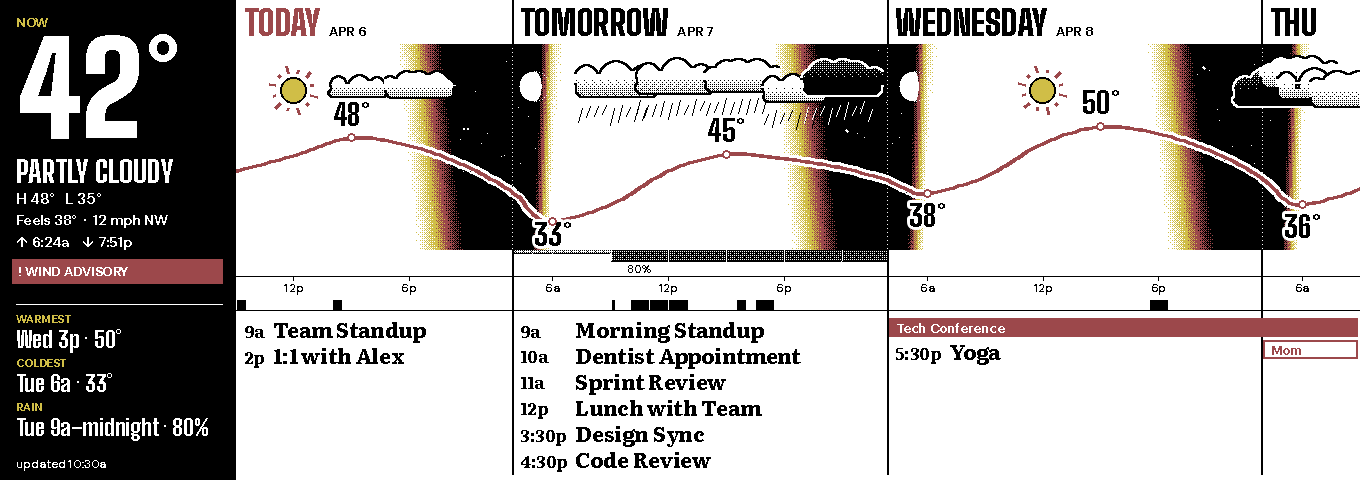
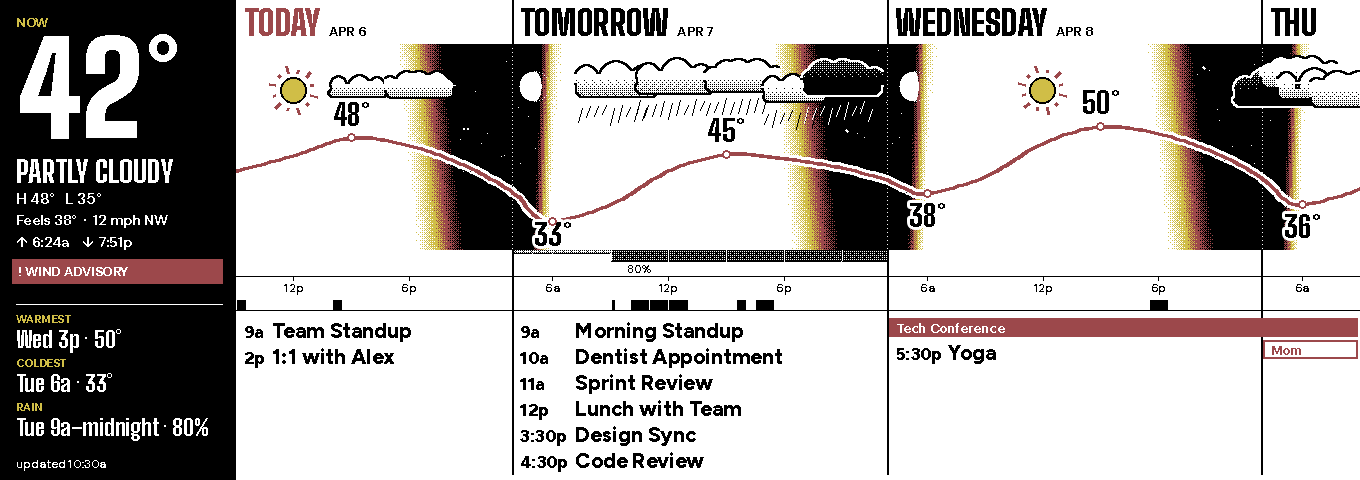
wide_horizon: set event rows in Figtree ExtraBold (#326)
* wide_horizon: set event rows in Inter

The Literata serif held its weight on the panel but read wrong beside
the plate's condensed display type. Inter ExtraBold keeps the same 4-px
title stem at 21 px, and Inter Bold the 3-px time stem at 17 px, as a
neutral grotesque. The other bundled sans faces hint to 2 px here and
DM Sans at its axis maximum went blunt.

Bundles Inter-Bold.ttf and Inter-ExtraBold.ttf (static, full glyph set,
from the official v4.1 release's extras/ttf) with Inter-OFL.txt, and
adds fonts.inter_bold / fonts.inter_extrabold.

Claude-Session: https://claude.ai/code/session_01KCiLHCYhChC1kojFWGv1dh

* wide_horizon: set event rows in Figtree ExtraBold

Titles and times move from Inter to Figtree ExtraBold at the same sizes
(21 / 17 px): both keep a 3-px stem on a 1-bit plate, where DM Sans Bold
set 2 px. Bundles Figtree-ExtraBold.ttf (the full-glyph Google Fonts
build) with Figtree-OFL.txt, adds fonts.figtree_extrabold, and drops the
Inter files and accessors nothing else uses.

Claude-Session: https://claude.ai/code/session_01KCiLHCYhChC1kojFWGv1dh

---------

diff --git a/tests/test_wide_horizon_theme.py b/tests/test_wide_horizon_theme.py
@@ -670,20 +670,38 @@ class TestDayLists:
         widths = sorted(n for n in (ink(img, (0, y, 60, y + 1)) for y in range(60)) if n)
         return widths[len(widths) // 2]
 
-    def test_rows_are_set_in_literata_with_heavy_stems(self):
+    def test_row_faces_set_heavy_stems(self):
         # Read at a glance across a room: DM Sans Bold at 18 px set a 2-px stem.
-        title, time = fonts.literata_bold(wh.ROW_TITLE_PT), fonts.literata_bold(wh.ROW_TIME_PT)
-        assert self._stem(title) >= 4
-        assert self._stem(time) >= 3
+        for pt in (wh.ROW_TITLE_PT, wh.ROW_TIME_PT):
+            assert self._stem(fonts.figtree_extrabold(pt)) >= 3, pt
+        assert self._stem(fonts.dm_bold(18)) == 2  # the face it replaced
 
-    def test_the_rows_draw_in_literata(self):
+    @pytest.mark.parametrize("title", ["Встреча", "Συνάντηση", "Họp mặt"])
+    def test_a_title_figtree_cannot_set_falls_back(self, title):
+        # Figtree is Latin-only; Pillow draws .notdef boxes rather than
+        # falling back, so the row picks a face that covers the title.
+        assert not fonts.has_glyphs(fonts.figtree_extrabold(wh.ROW_TITLE_PT), title)
+        face = wh.title_font(title, wh.ROW_TITLE_PT)
+        assert fonts.has_glyphs(face, title)
+        assert wh.title_font("Dentist Łódź", wh.ROW_TITLE_PT).getname()[0] == "Figtree"
+
+    def test_the_fallback_reaches_the_plate(self):
+        evt = _event("Встреча", datetime(2026, 4, 7, 14))
+        data = DashboardData(events=[evt])
+        tue = date(2026, 4, 7)
+        fallback = self._list(_plate(data, mode="L").convert("1"), tue, h=wh.ROW_H)
+        with patch.object(wh, "title_font", lambda _t, s: fonts.figtree_extrabold(s)):
+            boxes = self._list(_plate(data, mode="L").convert("1"), tue, h=wh.ROW_H)
+        assert fallback != boxes
+
+    def test_the_rows_draw_in_figtree(self):
         evt = _event("Dentist Appointment", datetime(2026, 4, 7, 14))
         data = DashboardData(events=[evt])
         tue = date(2026, 4, 7)
-        lit = self._list(_plate(data, mode="L").convert("1"), tue, h=wh.ROW_H)
-        with patch.object(fonts, "literata_bold", fonts.dm_bold):
+        figtree = self._list(_plate(data, mode="L").convert("1"), tue, h=wh.ROW_H)
+        with patch.object(fonts, "figtree_extrabold", fonts.dm_bold):
             dm = self._list(_plate(data, mode="L").convert("1"), tue, h=wh.ROW_H)
-        assert lit > dm * 1.15
+        assert figtree > dm * 1.05
 
     def test_a_chip_on_another_day_does_not_push_the_list_down(self):
         evt = _event("Dentist", datetime(2026, 4, 7, 14))
@@ -1044,6 +1062,7 @@ class TestFonts:
             fonts.big_shoulders_semibold,
             fonts.big_shoulders_extrabold,
             fonts.big_shoulders_black,
+            fonts.figtree_extrabold,
         ],
     )
     def test_loads_and_covers_the_glyphs_used(self, accessor):

diff --git a/src/render/components/wide_horizon_panel.py b/src/render/components/wide_horizon_panel.py
@@ -108,11 +108,12 @@ ALLDAY_H = 22
 STRIP_H = 10
 STRIP_GAP = 8
 # Each day's events listed in its own column, one line apiece.
-# Literata Bold, a reading serif drawn for e-readers: a 4-px stem on the
-# titles and 3 px on the times on a 1-bit plate, where DM Sans Bold set 2 px
-# and only its blunt axis maximum went heavier. SemiBold would snap the times
-# to 2 px below 18 px (as on wide_week's rail). Six rows still fill the band
-# below the strip when no all-day chip crosses it.
+# Figtree ExtraBold for titles and times: a 3-px stem at both sizes on a 1-bit
+# plate, where DM Sans Bold set 2 px and only its blunt axis maximum went
+# heavier. Figtree is Latin-only, so a title it cannot set (Cyrillic, Greek,
+# Vietnamese) falls back to Literata Bold, which covers them at a matching
+# weight (``title_font``). Six rows still fill the band below the strip when
+# no all-day chip crosses it.
 ROW_H = 26
 ROW_TITLE_PT = 21
 ROW_TIME_PT = 17
@@ -618,6 +619,12 @@ def allday_in_window(
 
 def _as_date(v) -> date:
     return v.date() if isinstance(v, datetime) else v
+
+
+def title_font(text: str, size: int):
+    """Figtree ExtraBold, or Literata Bold for a title Figtree has no glyphs for."""
+    font = fonts.figtree_extrabold(size)
+    return font if fonts.has_glyphs(font, text) else fonts.literata_bold(size)
 
 
 def fit_text(text: str, width: float, measure) -> str:
@@ -1428,12 +1435,8 @@ def _draw_events(draw, data: DashboardData, axis: TimeAxis, y0: int, y1: int, in
                     )
 
     hidden_by_day = overflow_counts(hidden, axis)
-    title_font = fonts.literata_bold(ROW_TITLE_PT)
-    time_font = fonts.literata_bold(ROW_TIME_PT)
-    more_font = fonts.literata_bold(ROW_TIME_PT)
-
-    def measure_title(t: str) -> float:
-        return text_width(draw, t, title_font)
+    time_font = fonts.figtree_extrabold(ROW_TIME_PT)
+    more_font = fonts.figtree_extrabold(ROW_TIME_PT)
 
     for cx0, cx1, day in day_columns(axis):
         day_events = [e for e in events if column_day(e, axis) == day]
@@ -1460,8 +1463,11 @@ def _draw_events(draw, data: DashboardData, axis: TimeAxis, y0: int, y1: int, in
             baseline = ry + ROW_H - 6
             draw.text((left, baseline), when, font=time_font, fill=ink.black, anchor="ls")
             if right - title_x >= MIN_BESIDE_LABEL_W:
-                title = fit_text(evt.summary, right - title_x, measure_title)
-                draw.text((title_x, baseline), title, font=title_font, fill=ink.black, anchor="ls")
+                face = title_font(evt.summary, ROW_TITLE_PT)
+                title = fit_text(
+                    evt.summary, right - title_x, lambda t, f=face: text_width(draw, t, f)
+                )
+                draw.text((title_x, baseline), title, font=face, fill=ink.black, anchor="ls")
         if more:
             ry = top + shown * ROW_H
             draw.text(

diff --git a/src/render/fonts.py b/src/render/fonts.py
@@ -1,9 +1,32 @@
 from functools import lru_cache
 from pathlib import Path
 
-from PIL import ImageFont
+from PIL import Image, ImageDraw, ImageFont
 
 FONT_DIR = Path(__file__).parent.parent.parent / "fonts"
+
+
+def _glyph_bits(font: ImageFont.FreeTypeFont, ch: str) -> bytes:
+    side = int(font.size) * 2
+    img = Image.new("1", (side, side), 0)
+    ImageDraw.Draw(img).text((0, 0), ch, font=font, fill=1)
+    return img.tobytes()
+
+
+@lru_cache(maxsize=4096)
+def _has_glyph(path: str, ch: str) -> bool:
+    font = ImageFont.truetype(path, 24)
+    # U+FFFF is a noncharacter, so every font draws its .notdef box for it.
+    return _glyph_bits(font, ch) != _glyph_bits(font, "\uffff")
+
+
+def has_glyphs(font: ImageFont.FreeTypeFont, text: str) -> bool:
+    """Whether *font* draws every character of *text*, rather than its .notdef box.
+
+    Pillow has no per-character font fallback, so a face missing a script
+    renders it as a row of boxes; callers use this to pick a fallback face.
+    """
+    return all(ch.isspace() or _has_glyph(str(font.path), ch) for ch in text)
 
 
 @lru_cache(maxsize=32)
@@ -218,6 +241,14 @@ def literata_semibold(size: int) -> ImageFont.FreeTypeFont:
 
 def literata_bold(size: int) -> ImageFont.FreeTypeFont:
     return get_font("Literata-Bold.ttf", size)
+
+
+# Figtree — a friendly geometric sans (OFL). Static ExtraBold, full glyph
+# set, the Google Fonts build (as repackaged by @expo-google-fonts/figtree).
+# Sets a 3-px stem at both 17 and 21 px on a 1-bit plate, where DM Sans Bold
+# hints to 2 px.
+def figtree_extrabold(size: int) -> ImageFont.FreeTypeFont:
+    return get_font("Figtree-ExtraBold.ttf", size)
 
 
 # Cormorant Garamond — high-contrast Garamond-revival serif (OFL).  Variable

diff --git a/CLAUDE.md b/CLAUDE.md
@@ -377,7 +377,8 @@ The cooldown is `display.min_refresh_interval_seconds` (config), defaulting to 6
 | `Orbitron-Variable.ttf` (OFL, variable) | `orbitron_black` | `terminal` — large today date numeral |
 | `DMSans.ttf` | `dm_regular/medium/semibold/bold` | `minimalist`, `weather`, `fuzzyclock`, `diags` (section labels), `countdown`, `astronomy`, `agenda`, `light_cycle`, `constellation_map` (margin) |
 | `PlayfairDisplay-*.ttf` | `playfair_regular/medium/semibold/bold` | `old_fashioned`, `qotd`, `almanac` (body + quote), `wide_week` rail (masthead, temperature, NEXT time, quote mark) |
-| `Literata-SemiBold.ttf` / `Literata-Bold.ttf` (OFL; static instances at opsz 12 cut from the upstream variable font with `fonttools varLib.instancer`) | `literata_semibold`, `literata_bold` | `wide_week` rail — the quote (SemiBold ≥ 18 px, Bold below, via `wide_week_rail_panel.quote_font`); `wide_horizon` — event rows (Bold throughout) |
+| `Literata-SemiBold.ttf` / `Literata-Bold.ttf` (OFL; static instances at opsz 12 cut from the upstream variable font with `fonttools varLib.instancer`) | `literata_semibold`, `literata_bold` | `wide_week` rail — the quote (SemiBold ≥ 18 px, Bold below, via `wide_week_rail_panel.quote_font`) |
+| `Figtree-ExtraBold.ttf` (OFL; static full-glyph Google Fonts build, via `@expo-google-fonts/figtree`) | `figtree_extrabold` | `wide_horizon` — event rows (21-px titles, 17-px times) |
 | `Cinzel.ttf` | `cinzel_regular/semibold/bold/black` | `fantasy`, `old_fashioned` section labels, `moonphase`, `almanac` (section labels + small caps) |
 | `CormorantGaramond.ttf` / `CormorantGaramond-Italic.ttf` (OFL, variable) | `cormorant_regular/medium/semibold/italic` | `moonphase` — date, illumination, celestial + weather strips, quote body (italic) |
 | `Tangerine-Regular.ttf` (OFL) | `tangerine_regular` | `moonphase` — calligraphic script quote attribution |
@@ -504,7 +505,7 @@ default to `None` and fall back gracefully so adding a new field never breaks ex
 - **`display.scaling` decides how an off-size canvas reaches the panel** (`fit_canvas()` in `src/display/backend.py`). Every version so far stretched, and `auto` (the default) still does unless `distortion()` — the ratio between the panel's aspect and the canvas's — exceeds `FIT_DISTORTION_THRESHOLD` (4/3): a 4:3 `epd13in3k` is 1.25 and renders byte-identically to before, the 1360×480 strip is 1.7 and fits. `fit` pads with the theme's `bg`, passed to the backend as `background=` in the canvas's own mode (`pad_value()` converts it); `stretch` and `fit` are explicit overrides, and an unknown value behaves as `auto` at render time while `validate_config()` reports it. The backend tests build their config as a `MagicMock`, which is why `resolve_scaling()` treats anything but the two explicit strings as auto rather than raising.
 - **The `wide_*` themes declare a 1360×480 canvas** (`wide_week`, `wide_day`, `wide_forecast`, `wide_horizon`, `wide_night`, `wide_night_invert`, `wide_diags`, `halftone_agenda_wide`) and are the reason previews are rendered at the theme's canvas size when its *shape* differs from the panel's (`scripts/build_previews.py` swaps `cfg.display` width/height for the layout's only on an aspect mismatch — a supersampled 1600×960 canvas keeps the panel's 800×480 and its downsample) — on an 800×480 config they letterbox to a 800×282 band, which is what the pixel-snapshot and idle-tick suites hash. They are kept out of a random rotation on a panel of the other shape: `random_theme.eligible_themes(..., panel=)` drops any theme whose canvas would be fitted with padding there (`theme_fits_panel`, the same `FIT_DISTORTION_THRESHOLD` test `display.scaling: auto` applies), and `services/theme.py` and `validate_config` pass the configured panel. `OutputService` keys its default cooldown on the display spec, not the provider string, so a colour Waveshare model gets Inky's 60 s rather than the mono 0 s. `primitives.next_birthday()` is the one home of the Feb 29 → Feb 28 rollover; `birthday_bar`, `almanac`, `wide_day_panel` and `halftone_agenda_wide_panel` all call it. `wide_week` is the standard `week_view` on the right (920 px, full height, no header) beside `wide_week_rail_panel.py`, a 440-px broadsheet rail (Playfair Display, accent small-caps labels, hairline rules; section tops are fixed constants so the rules land in the same place daily) whose NOW/NEXT line is its one clock-driven element, moving only at event boundaries (hence `EXTRA_EVENT_DAYS["wide_week"] = 1`); the rail's type floor is 13 px with 16-px DM Sans **SemiBold** body rows (Medium at 13 px rasterised to hairlines), its quote is **Literata** (a reading serif drawn for e-readers; Playfair's hairlines broke up even at SemiBold) at SemiBold from 18 px and Bold below, because bilevel hinting snaps SemiBold's stems to 2 px at 16–17 px and a long quote stepping down a size would visibly thin out (`TestQuoteWeight` pins a 3-px stem at every `QUOTE_PTS` size), and `draw_wide_week_rail` sets `draw.fontmode = "1"` around the whole rail (restoring the caller's afterwards) because on the colour panels' RGB canvas antialiased glyph edges were cut at mid-grey by the four-ink snap, erasing Playfair's hairlines — `TestBilevelType` pins both; its sky rows reuse `wide_horizon_panel.sun_zone` for naive preview clocks; colour is split by ink — red (primary accent) for labels and warnings, yellow (the resolved `accent_warn`) **only as a fill behind ink type** (NOW/NEXT band, rain chips, a birthday today), never as type or rules, and `highlight()` returns `None` where `accent_warn` resolves to `fg` (mono) so the fills drop out rather than blacking the type out — the grid's `secondary_accent_fill()` colours the weekend headers' *text*, so switching the theme's secondary accent to yellow would have put yellow type in the grid; `wide_day` (`wide_day_panel.py`) packs bars into lanes by `pack_lanes()` over *bar-plus-label* pixel extents, not time spans — a thirty-minute meeting is 24 px on a sixteen-hour axis, so packing by time alone left a busy day as one lane of anonymous boxes — and is in `TIME_DRIVEN` (NOW marker) and `THEMES_NEEDING_TOMORROW` (its UP NEXT rail). `wide_forecast` (`wide_forecast_panel.py`) is idle-stable; its yellow precipitation fill is drawn only when `secondary_accent_fill()` differs from `fg` (`_tint()`), because on a monochrome plate a fill behind ink text is unreadable. All three name only red/yellow/black accents so the Inky preview and the four-ink panel agree.
 - **Art regions are the one place a colour panel dithers.** A colour backend snaps every pixel to the nearest ink (`quantize_to_palette_nearest` on the G panel, the Inky driver at write time), which flattens an illustration's gradient to one ink while the same theme's greyscale path keeps its engraving. `RenderContext.dither_regions` is a list the adapter fills from the panel's pure `art_rect(region)` (`halftone`, `halftone_agenda`, `halftone_agenda_wide` and `day_arc` declare their art panes; the panel itself never sees the list, so it stays a pure function of its inputs), and `canvas.render_dashboard` passes it to `resize_and_finalize(..., dither_regions=...)`. `backend.dither_art_regions()` maps each rectangle through `placement()` — the same arithmetic `fit_canvas` uses, so a region declared in canvas coordinates lands on the fitted or stretched plate — cuts it from the resized canvas *before* the snap, Floyd-Steinberg-diffuses it onto the inks with `quantize_to_palette_fs`, and pastes it over the snapped plate. Floyd-Steinberg, not ordered Bayer: it is what the themes' L-mode path already uses, so the engraving matches across panels, and diffusion has no error to spread on an exact ink, so a solid yellow disc stays solid where a Bayer offset would speckle it. On Inky the target palette is `INKY_SPECTRA6_PALETTE` (the driver's measured values) so the write-time nearest mapping is the identity on the region. On the G panel the art helpers still fill with the measured Spectra values (`skyart.accent_yellow`, `artkit.accent_red` don't know the panel), so `G_EXACT_REMAP` substitutes each Spectra-6 value with the G ink at the same index *before* diffusion — diffusing (208,190,71) against (255,255,0) turned a solid sun disc 47% yellow. Neutral pixels diffuse against black and white only (`NEUTRAL_SPREAD`); diffusing them against the whole palette let accumulated error drift in hue and sprinkled a night sky with coloured dots. The mixing widens the perceived gamut only *inside* the hull of the inks — orange, pink, maroon, olive and greys on the G panel — and can never produce a blue or green there. Declaring a region that contains type will speckle it; the mono `WaveshareBackend` ignores the list because its whole plate already dithers.
-- **`wide_horizon` puts the next 72 hours on one axis** (`wide_horizon_panel.py`). The window starts at `window_start(now)` — the 3-hour forecast slot holding now — so the clock moves the plate at most eight times a day and the theme stays out of `TIME_DRIVEN`; the TODAY→TONIGHT switch keys on the slot for the same reason (and `header_label()` sets today's name as a caption in the date face when its slice is too narrow for a headline — never a shrunken headline, never the short weekday), and the hero's "updated" caption reads `content_time`. `TimeAxis` is piecewise-linear by clock hour (`hour_weight`: 23:00–06:00 at `NIGHT_WEIGHT`), ~19 px per waking hour against ~16 linear. The sky's colour per column is `astronomy.solar_altitude` at that column's time plus `HORIZON_GLOW_DEG` toward the band's bottom, mapped by `sky_field()` to **ordered dithers between pairs of inks** (white/yellow, yellow/red, red/black on colour; one black/white ramp on mono) from an 8×8 Bayer phased to canvas coordinates. Everything on the plate is an exact ink — tones are dithered here and type is set with `draw.fontmode = "1"` — so the four-ink snap and the mono threshold are the identity at native size. The sky is deliberately **not** an art region: `dither_art_regions()` is not the identity on a tile of exact inks (its neutral pass Floyd-Steinbergs the tile's luminance, flipping black/white pixels beside red and yellow), so declaring it speckled the plate on the panel it was drawn for — `test_native_pipeline_changes_nothing_but_the_ink_snap` pins this. The theme declares `ordered` quantization so a *scaled mono* panel re-screens rather than flattening a blurred dither (which also derives it out of partial refresh); small type on a scaled plate comes out screened, the accepted cost of a strip theme on the wrong shape. The temperature comes from `WeatherData.hourly` (the OWM 3-hour grid, kept by `weather._parse_hourly`); `daily_extremes` labels only real turning points, since the window cuts days at both ends. OWM's grid starts at the first 3-hour **UTC** boundary after the request, so it never lines up with the local slot the window opens on; `lead_in()` fills the gap with stand-in slots carrying the current reading and icon, and `dummy_data._dummy_hourly` starts its grid the same way OWM does so previews exercise it. A slot is three hours of real time but the axis is the wall clock, so every consumer takes slot ends from `slot_spans()` (each ends where the next begins, trusted within an hour of 3 h) — `start + 3 h` left an hour of the plate blank at spring-forward and overlapped slots at fall-back. Stand-ins are the reading now held flat, so `daily_extremes` and `outlook` take `real_from` (the first real slot) and never label or report one — without it an evening plate showed its flat stand-in as the day's "high". High/low labels go through `place_label()`, which slides a label off any sun or moon box (`_draw_suns`/`_draw_moons` return boxes, not x) toward the side nearer its point. The events band is a **schedule strip** (a block per timed event over its real span, a pixel of paper either side so back-to-back meetings stay two) over **one list per day**, set in that day's midnight-to-midnight column (`day_columns()`): one line per event, start time then title (Literata Bold, 21-px titles with a 4-px stem and 17-px times with 3 px, in 26-px rows — six still fill the band; DM Sans Bold set 2 px, and its axis maximum was heavy but blunt), so labels never have to fit the ~19 px/hour axis — packing labels onto the axis staircased them into lanes and hid events while half the band sat empty. An event is listed on its start day, or the window's first day if it began earlier, where its time cell reads `–end` (`row_time()`). All-day chips are stacked by `stack_chips()`, not `pack_lanes()`: multi-day spans are seated first (longest first where they start together), and a single day takes the first free row below every span it overlaps, so a trip is never drawn under a one-day item on the same days; left-to-right packing gave row 0 to whichever chip started first. A list starts below only the all-day chips that cross its own column (`allday_depth()`). When a day has more rows than fit, or all-day chips past `ALLDAY_MAX_ROWS`, its last row is `+N more` instead of an event (`list_rows()`); a column under `MIN_COL_W` (an evening sliver) lists nothing and shows only `+N`. Clouds/rain/snow/storm/fog are drawn per slot from its icon (`sky_kind`), seeded by the slot's clock hour so they travel with the window; an overcast or wet slot hides the sun at noon and the moon at transit (`sun_hidden`), and scattered clouds keep `SUN_CLEARANCE` off both. With a naive render clock (previews, snapshots) `sun_zone()` places the sun in the whole-hour zone the longitude implies instead of UTC. `EXTRA_EVENT_DAYS["wide_horizon"] = 3`.
+- **`wide_horizon` puts the next 72 hours on one axis** (`wide_horizon_panel.py`). The window starts at `window_start(now)` — the 3-hour forecast slot holding now — so the clock moves the plate at most eight times a day and the theme stays out of `TIME_DRIVEN`; the TODAY→TONIGHT switch keys on the slot for the same reason (and `header_label()` sets today's name as a caption in the date face when its slice is too narrow for a headline — never a shrunken headline, never the short weekday), and the hero's "updated" caption reads `content_time`. `TimeAxis` is piecewise-linear by clock hour (`hour_weight`: 23:00–06:00 at `NIGHT_WEIGHT`), ~19 px per waking hour against ~16 linear. The sky's colour per column is `astronomy.solar_altitude` at that column's time plus `HORIZON_GLOW_DEG` toward the band's bottom, mapped by `sky_field()` to **ordered dithers between pairs of inks** (white/yellow, yellow/red, red/black on colour; one black/white ramp on mono) from an 8×8 Bayer phased to canvas coordinates. Everything on the plate is an exact ink — tones are dithered here and type is set with `draw.fontmode = "1"` — so the four-ink snap and the mono threshold are the identity at native size. The sky is deliberately **not** an art region: `dither_art_regions()` is not the identity on a tile of exact inks (its neutral pass Floyd-Steinbergs the tile's luminance, flipping black/white pixels beside red and yellow), so declaring it speckled the plate on the panel it was drawn for — `test_native_pipeline_changes_nothing_but_the_ink_snap` pins this. The theme declares `ordered` quantization so a *scaled mono* panel re-screens rather than flattening a blurred dither (which also derives it out of partial refresh); small type on a scaled plate comes out screened, the accepted cost of a strip theme on the wrong shape. The temperature comes from `WeatherData.hourly` (the OWM 3-hour grid, kept by `weather._parse_hourly`); `daily_extremes` labels only real turning points, since the window cuts days at both ends. OWM's grid starts at the first 3-hour **UTC** boundary after the request, so it never lines up with the local slot the window opens on; `lead_in()` fills the gap with stand-in slots carrying the current reading and icon, and `dummy_data._dummy_hourly` starts its grid the same way OWM does so previews exercise it. A slot is three hours of real time but the axis is the wall clock, so every consumer takes slot ends from `slot_spans()` (each ends where the next begins, trusted within an hour of 3 h) — `start + 3 h` left an hour of the plate blank at spring-forward and overlapped slots at fall-back. Stand-ins are the reading now held flat, so `daily_extremes` and `outlook` take `real_from` (the first real slot) and never label or report one — without it an evening plate showed its flat stand-in as the day's "high". High/low labels go through `place_label()`, which slides a label off any sun or moon box (`_draw_suns`/`_draw_moons` return boxes, not x) toward the side nearer its point. The events band is a **schedule strip** (a block per timed event over its real span, a pixel of paper either side so back-to-back meetings stay two) over **one list per day**, set in that day's midnight-to-midnight column (`day_columns()`): one line per event, start time then title (Figtree ExtraBold, 21-px titles and 17-px times, both a 3-px stem, in 26-px rows — six still fill the band; DM Sans Bold set 2 px, its axis maximum was heavy but blunt, and neither a serif (Literata) nor Inter was the look wanted). Figtree is Latin-only and Pillow has no per-character fallback, so `title_font()` sets a title Figtree cannot draw (Cyrillic, Greek, Vietnamese) in Literata Bold, checked with `fonts.has_glyphs()` — a character counts as missing when it renders identically to U+FFFF, the .notdef box, so labels never have to fit the ~19 px/hour axis — packing labels onto the axis staircased them into lanes and hid events while half the band sat empty. An event is listed on its start day, or the window's first day if it began earlier, where its time cell reads `–end` (`row_time()`). All-day chips are stacked by `stack_chips()`, not `pack_lanes()`: multi-day spans are seated first (longest first where they start together), and a single day takes the first free row below every span it overlaps, so a trip is never drawn under a one-day item on the same days; left-to-right packing gave row 0 to whichever chip started first. A list starts below only the all-day chips that cross its own column (`allday_depth()`). When a day has more rows than fit, or all-day chips past `ALLDAY_MAX_ROWS`, its last row is `+N more` instead of an event (`list_rows()`); a column under `MIN_COL_W` (an evening sliver) lists nothing and shows only `+N`. Clouds/rain/snow/storm/fog are drawn per slot from its icon (`sky_kind`), seeded by the slot's clock hour so they travel with the window; an overcast or wet slot hides the sun at noon and the moon at transit (`sun_hidden`), and scattered clouds keep `SUN_CLEARANCE` off both. With a naive render clock (previews, snapshots) `sun_zone()` places the sun in the whole-hour zone the longitude implies instead of UTC. `EXTRA_EVENT_DAYS["wide_horizon"] = 3`.
 - **`wide_night` gets its red from the primary accent, not from `bg`.** `_resolve_style()` only maps `fg`/`bg` to black or white, so a red ground cannot be declared as a style colour. The theme is a dark-canvas plate (`fg=1, bg=0` — which also derives it out of partial refresh and pads a letterboxed plate dark), and `wide_night_panel.colours()` fills the region with `primary_accent_fill()` and draws the marks in `bg` whenever the accent differs from `fg`; on monochrome the accent collapses onto `fg`, so it falls back to white-on-black. Marks are sized to one shared height by `fit_height()` — up to 80% of the plate, but in practice the row's width sets it — with a minimum gap proportional to the height (`MIN_GAP_FRACTION = 0.9`, the knob for the plate's overall size; a fixed gap is overtaken by the space inside `42°` as marks grow). Labels are a fixed `LABEL_PT`, tracked by hand (`tracked_width()` / `_draw_label()`, since PIL has no letter-spacing), and the marks' centre sits above the midline by half the label band so the group is centred. **Measure with `ink_box()`, not `textbbox()`**: for the weather-icons face `textbbox` returns the glyph's whole cell — every moon phase reports the full disc — so spacing by it leaves a crescent's gap on the wrong side. The moon glyphs ink only the lit part (the new-moon glyph is just a ring); the plate draws the lit part alone, with no outline on the dark limb, so a new moon shows nothing. The ring is still used to size the moon (so the disc is the shared height) and centre it vertically. Excluded from the random pool (a night plate drawn at noon is a surprise), `repaint_slot_hours=1`. `wide_night_invert` is the same layout via `dataclasses.replace` with `draw_order=["wide_night_invert"]` — a second component on the same `wide_night` region that calls `draw_wide_night(..., invert=True)`, which swaps `colours()`' ground and ink.
 - **`wide_diags` reads the panel's ink set off the resolved style.** It is the `diags` component on a `diags` region of `(0, 0, 800, 480)` plus `wide_diags_panel.py` on a new `ThemeLayout.wide_diags` region beside it (`draw_order=["diags", "wide_diags"]`). The theme leaves every accent role unset, so `_resolve_style()` fills them from the panel's palette; `panel_inks()` takes `fg`, `bg`, `accent_warn/alert/info/good` and keeps the first of each value — on the G panel blue and green resolve to black and drop out (four inks), on Inky all six survive, on monochrome every accent collapses onto `fg` (two). Ramps and textures are Bayer-screened by the panel in exact inks (`bayer_field` from `wide_horizon_panel`, phased to canvas coordinates) with `draw.fontmode = "1"`, so the colour snap is the identity on them — `test_g_swatches_reach_the_panel_as_drawn` pins that against a direct draw. The DIFFUSED row is the one art region (`diffused_rect()`, appended to `dither_regions` by the adapter): a hue sweep over a grey ramp the colour backend Floyd-Steinbergs; on a `"1"` canvas the panel pastes the grey ramp pre-dithered by PIL. `preferred_quantization_mode="ordered"` derives it out of partial refresh. It is in `ALWAYS_LIVE` in the idle-tick test (live host metrics, like `diags`) and excluded from the pool.
 - **`halftone_agenda_wide` is `halftone_agenda` drawn for the strip, not a copy of it.** `halftone_agenda_wide_panel.py` imports the original's `_draw_weather_band`, `_sun_times`, `_clock`, `event_times`, `inline_range`, `two_line_time_fits`, `past_screen` and `_location_text` (private names, deliberately — the two plates must read out the same things, and a second copy of the band or the time-cell rules would drift). The agenda pane itself is this plate's own (`_draw_wide_agenda`), and it deliberately has **no state treatments** — no perforated past rows, no inverted running event, no next-up accent, no `NEXT` figure in the header: on the four-ink panel every repaint is a twenty-second colour flash and each treatment repaints at every event boundary, so the day is shown whole and the same from dawn to dusk, with the after-dark rollover the one clock-driven change (one repaint a day). `tests/test_halftone_agenda_wide_theme.py` pins that a render before, during and after an event is byte-identical. Colour keys on the *kind* of event instead — a timed event's tick is `artkit.accent_yellow_solid`, an all-day event's `accent_red` (outlined in ink on mono, where both accents are ink) — which costs no repaints; the colour-panel variant of that test pins it. Use `accent_yellow_solid`, not `skyart.accent_yellow`, for marks and type: the latter's L-mode fallback is a light grey that `harden_typeset` snaps to paper. What 520 px of width pays for — a header dateline with the day's totals (`booked_minutes` counts overlaps once), a **schedule strip** (`_draw_schedule_strip`, solid blocks whatever the hour), a duration column, `— Nh Nm free` gap markers between events at least `GAP_MIN_MINUTES` apart (`gap_after` measures from the latest end so far, so a long event swallowing a short one reports no phantom gap), and time cells in **Antonio** (condensed, so titles gain the width). Its tiers are `_WIDE_TIERS`, chosen by `wide_metrics()` on rows *plus* gap markers, which are dropped before the type shrinks past 18 px. It adds the third pane: a rail with an alert bar, the next day's events, the forecast, birthdays, and an air-and-moon foot anchored to the rail's bottom (`FOOT_H`) so it can never be pushed off by a long birthday list — the birthdays cell takes whatever is left above it. The rail shows the day after tomorrow once the agenda has rolled over, so the theme needs two extra days of events: `src/app.py` now carries `EXTRA_EVENT_DAYS` (theme → days past the standard week) with `THEMES_NEEDING_TOMORROW` derived from its keys, and `_event_window_for_theme` returns `7 + extra`. Rail rows are 24 px with a 14-pt Righteous label over a 3-px Bayer rule; the whole rail is hardened like the agenda pane. It is in `DECLINES_PARTIAL` in `tests/test_theme_partial_refresh.py` for the same reason its sibling is.

diff --git a/docs/themes.md b/docs/themes.md
@@ -541,7 +541,7 @@ Top to bottom: each day's name set at its midnight (today in the accent, `TONIGH
 
 The axis compresses the hours between 23:00 and 06:00 to a third of a waking hour's width, so the waking hours get about 19 px each. Without coordinates the day's reported sunrise and sunset place every night in the window.
 
-On a colour panel the twilights are **ordered dithers between pairs of inks** — white with yellow, yellow with red, red with black — so the four-ink panel shows pale yellow, orange and maroon it has no ink for; the temperature line and today's name are red, the sun and moon yellow. On a monochrome panel the same altitudes drive one black-and-white Bayer ramp. Every pixel on the plate is already an exact ink (type is set without antialiasing), so the panel's final snap changes nothing at native size. The theme declares `ordered` quantization so a panel that scales it re-screens its tones, which also derives it out of partial refresh. The window moves on at most eight times a day, when a new forecast slot begins; nothing else reads the clock. Type is **Big Shoulders Display** for day names, temperatures and the hero reading, DM Sans for everything else. A weather cache written before the fetcher kept the forecast grid shows the sky and events without the temperature line until the next weather fetch.
+On a colour panel the twilights are **ordered dithers between pairs of inks** — white with yellow, yellow with red, red with black — so the four-ink panel shows pale yellow, orange and maroon it has no ink for; the temperature line and today's name are red, the sun and moon yellow. On a monochrome panel the same altitudes drive one black-and-white Bayer ramp. Every pixel on the plate is already an exact ink (type is set without antialiasing), so the panel's final snap changes nothing at native size. The theme declares `ordered` quantization so a panel that scales it re-screens its tones, which also derives it out of partial refresh. The window moves on at most eight times a day, when a new forecast slot begins; nothing else reads the clock. Type is **Big Shoulders Display** for day names, temperatures and the hero reading, **Figtree** ExtraBold for the event rows, DM Sans for everything else. A weather cache written before the fetcher kept the forecast grid shows the sky and events without the temperature line until the next weather fetch.
 
 [![Wide horizon theme](../assets/previews/theme_wide_horizon.png)](../assets/previews/theme_wide_horizon.png)
 

diff --git a/CHANGELOG.md b/CHANGELOG.md
@@ -77,11 +77,18 @@ The format is based on [Keep a Changelog](https://keepachangelog.com/).
   took the top row and pushed the trip under it. Spans are now seated first,
   and a single day goes below every span it overlaps; a day no span crosses
   still uses the top row.
-- **`wide_horizon` event rows are set in Literata Bold.** Titles are 21 px
-  and times 17 px, up from DM Sans Bold 18 px over SemiBold 15 px, in 26-px
-  rows, so a full day still shows six. On a 1-bit plate the title stem goes
-  from 2 px to 4; the reading serif the `wide_week` quote already uses keeps
-  its weight where the sans faces hint thin.
+- **`wide_horizon` event rows are set in Figtree ExtraBold.** Titles are
+  21 px and times 17 px, up from DM Sans Bold 18 px over SemiBold 15 px, in
+  26-px rows, so a full day still shows six. On a 1-bit plate both keep a
+  3-px stem where DM Sans Bold set 2 px; the other bundled sans faces hint
+  thin at this size, DM Sans pushed to its axis maximum went blunt, and a
+  serif (Literata) held the weight but read wrong beside the plate's
+  condensed display type. Figtree ExtraBold is bundled as a static TTF with
+  the full glyph set (the Google Fonts build), with `fonts/Figtree-OFL.txt`;
+  new accessor `fonts.figtree_extrabold`. Figtree is Latin-only, and Pillow
+  has no per-character fallback, so a title it cannot set (Cyrillic, Greek,
+  Vietnamese) is drawn in Literata Bold instead of as a row of boxes; the
+  check is the new `fonts.has_glyphs()`.
 
 - **`wide_horizon` lists each day's events instead of hanging labels on the
   time axis.** A waking hour is about 19 px wide and a label about 150, so
